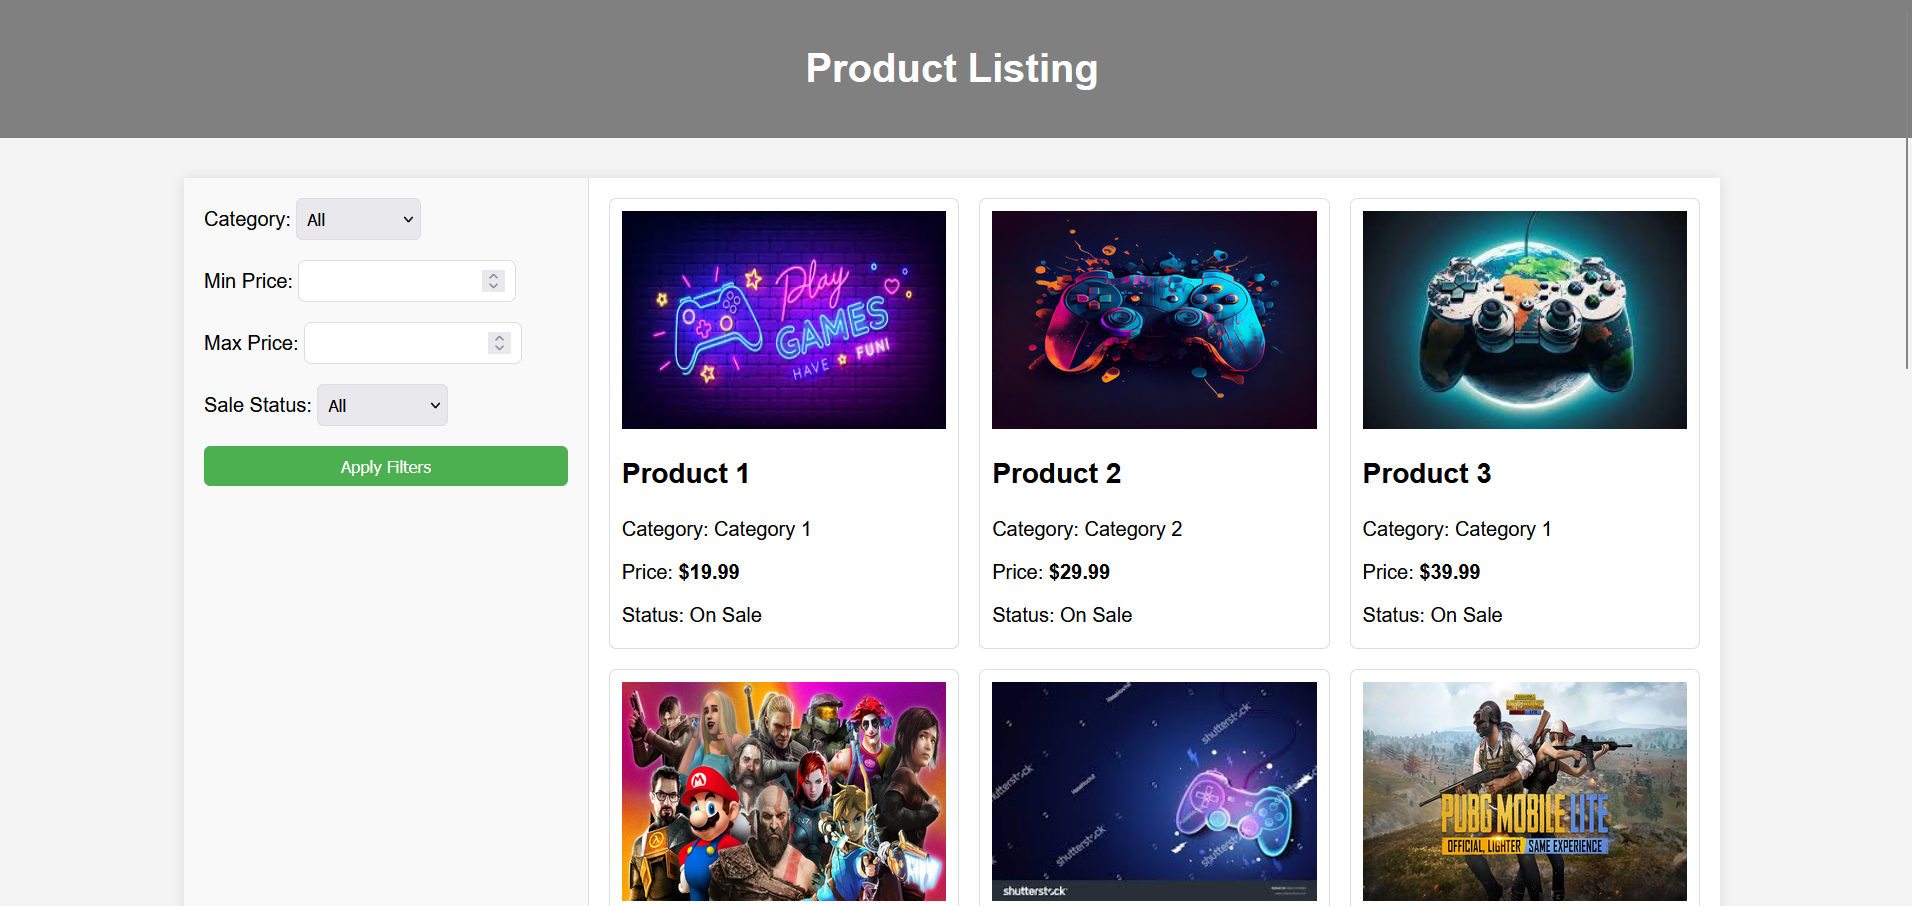
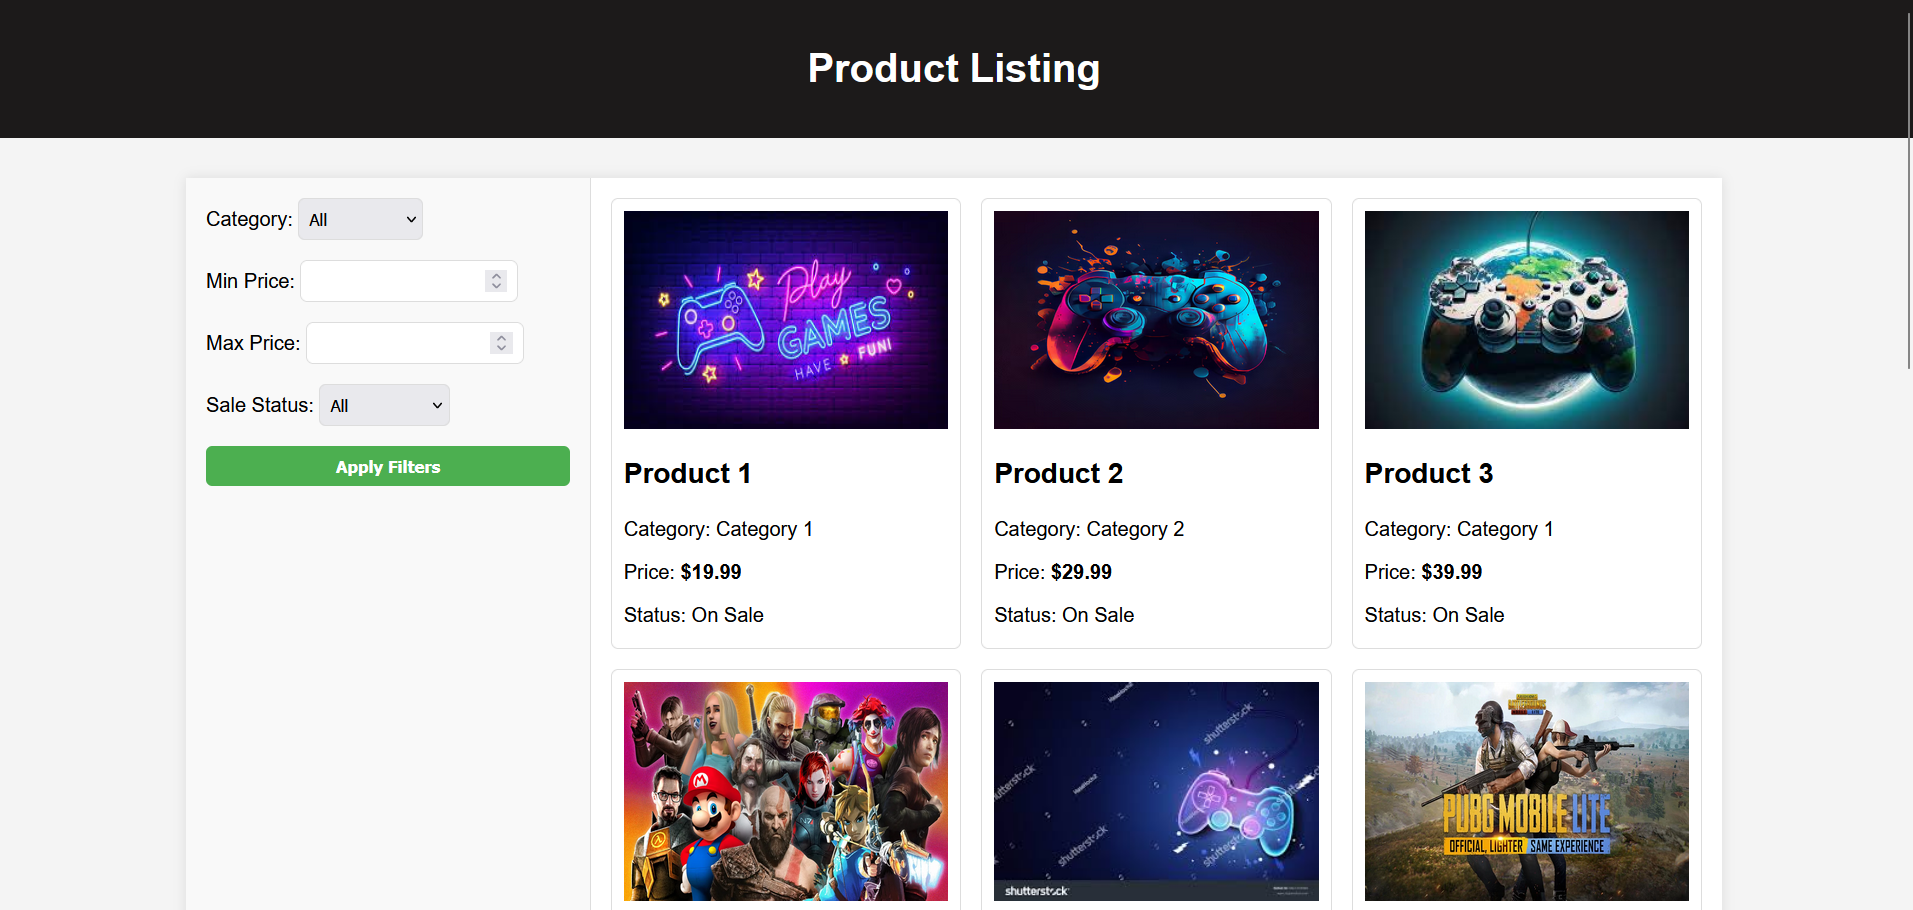
updated ui

diff --git a/style.css b/style.css
@@ -5,7 +5,7 @@ body {
   background-color: #f4f4f4;
 }
 header {
-  background-color: gray;
+  background-color: rgb(28, 26, 26);
   color: white;
   padding: 1rem;
   text-align: center;
@@ -50,6 +50,7 @@ form button {
   background-color: #4caf50;
   color: white;
   border: none;
+  font-weight: 600;
   border-radius: 5px;
   cursor: pointer;
 }
